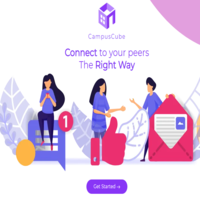
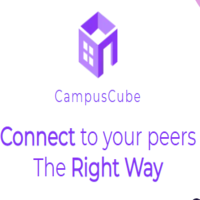
project pictures and details updated

diff --git a/index.html b/index.html
@@ -380,38 +380,38 @@
             </div>
             <div class="project">
                 <div class="itembox web">
-                    <a class="magnify" href="./img/campus_cube.PNG" title="CampusCube">
+                    <a class="magnify" href="./img/campus_cube.PNG" title="CampusCube: https://campuscube.netlify.app">
                         <img src="./img/campus_cube_200x200.png">
                     </a>
                 </div>
                 <div class="itembox web">
-                    <a class="magnify" href="./img/resume_live.PNG" title="Web Resume">
+                    <a class="magnify" href="./img/resume_live.PNG" title="Web Resume: https://afaq-resume-live.netlify.app">
                         <img src="./img/resume_live_200x200.png">
                     </a>
                 </div>
                 <div class="itembox desktop">
-                    <a class="magnify" href="./img/3.jpg" title="web">
-                        <img src="./img/3.jpg">
+                    <a class="magnify" href="./img/Afaq Note++.PNG" title="Afaq Note++">
+                        <img src="./img/notelogo_200x200.png">
                     </a>
                 </div>
                 <div class="itembox desktop">
-                    <a class="magnify" href="./img/4.jpg" title="web">
-                        <img src="./img/4.jpg">
+                    <a class="magnify" href="./img/Afaq_calculator.PNG" title="Calculator- Desktop App">
+                        <img src="./img/cal_logo_200x200.png">
                     </a>
                 </div>
                 <div class="itembox game">
-                    <a class="magnify" href="./img/5.jpg" title="web">
-                        <img src="./img/5.jpg">
+                    <a class="magnify" href="./img/space_invaders.PNG" title="Space Invaders- Assembly Project">
+                        <img src="./img/space_invader_200x200.jpg">
                     </a>
                 </div>
                 <div class="itembox desktop">
-                    <a class="magnify" href="./img/6.jpg" title="web">
-                       <img src="./img/6.jpg">
+                    <a class="magnify" href="./img/rent_a_car.PNG" title="A-One Rent A Car Desktop App">
+                       <img src="./img/rent_a_car_logo_1-removebg-preview.png">
                     </a>
                 </div>
                 <div class="itembox game">
-                    <a class="magnify" href="./img/6.jpg" title="web">
-                        <img src="./img/6.jpg">
+                    <a class="magnify" href="./img/tic_tac_toe_full.png" title="Tic Tac Toe -C++">
+                        <img src="./img/tic_tac_toe_200x200.png">
                     </a>
                 </div>
             </div>
